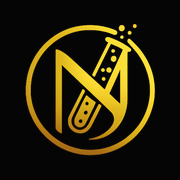
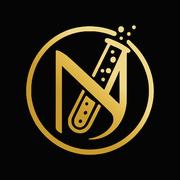
feat: Landingpage ab 250 € und Signet aus der Vektor-Masterdatei
- Landingpage-Preis auf "ab 250 €" gesetzt (Einstiegspreis laut
  Werbebrief), wirkt auf Leistungsseite, Startseite und Structured Data
- Logo, Favicon und App-Icons neu aus dem Vektor-Signet des Corporate
  Designs gerendert (offizieller Goldverlauf, 512 px, quadratisch)

Changed region(s): [[0.1389, 0.1389, 0.8611, 0.8889]]

diff --git a/data/services.ts b/data/services.ts
@@ -3,7 +3,8 @@
  *
  * Einzige Quelle fuer Leistungsseite, Startseiten-Vorschau, Footer und
  * Structured Data. Die Preise entsprechen dem Google-Unternehmensprofil
- * (Stand November 2026) — bei Aenderungen beides gemeinsam pflegen.
+ * und dem Werbebrief (Stand November 2026) — bei Aenderungen alle drei
+ * gemeinsam pflegen. Landingpage: ab 250 € (Einstiegspreis laut Werbebrief).
  *
  * Texte (Titel, Beschreibung) liegen in messages/*.json unter
  * services.categories.<kategorie>.items.<id>.
@@ -45,7 +46,7 @@ export const SERVICE_CATEGORIES: readonly ServiceCategory[] = [
         id: "web",
         items: [
             { id: "website", price: from(1490) },
-            { id: "landing", price: from(1049) },
+            { id: "landing", price: from(250) },
             { id: "redesign", price: onRequest() },
             { id: "check", price: free() },
             { id: "repair", price: fixed(69) },

diff --git a/components/services/service-price.tsx b/components/services/service-price.tsx
@@ -11,7 +11,7 @@ function formatEuro(amount: number, locale: string) {
     }).format(amount)
 }
 
-/** Preisangabe einer Leistung, sprachabhaengig formatiert ("ab 1.049 €", "€32 / month" …). */
+/** Preisangabe einer Leistung, sprachabhaengig formatiert ("ab 1.490 €", "€32 / month" …). */
 export async function ServicePrice({ price, className }: { price: ServicePriceData; className?: string }) {
     const t = await getTranslations("services.price")
     const locale = await getLocale()

diff --git a/app/layout.tsx b/app/layout.tsx
@@ -2,7 +2,7 @@ import "./globals.css"
 
 /**
  * Icons kommen ueber die Datei-Konventionen von Next.js: app/favicon.ico,
- * app/icon.png und app/apple-icon.png (alle aus public/logo.png erzeugt).
+ * app/icon.png und app/apple-icon.png (wie public/logo.png aus dem Vektor-Signet des Corporate Designs erzeugt).
  *
  * Durchreichendes Root-Layout. <html> und <body> rendert
  * app/[locale]/layout.tsx, damit `lang` schon im ausgelieferten HTML zur

diff --git a/components/layout/brand-logo.tsx b/components/layout/brand-logo.tsx
@@ -26,7 +26,7 @@ export function BrandLogo({ name, tagline, taglineClassName, size = 34, classNam
                 src="/logo.png"
                 alt=""
                 width={size}
-                height={Math.round(size * (399 / 392))}
+                height={size}
                 className="shrink-0"
             />
             <span className="flex flex-col leading-none">
